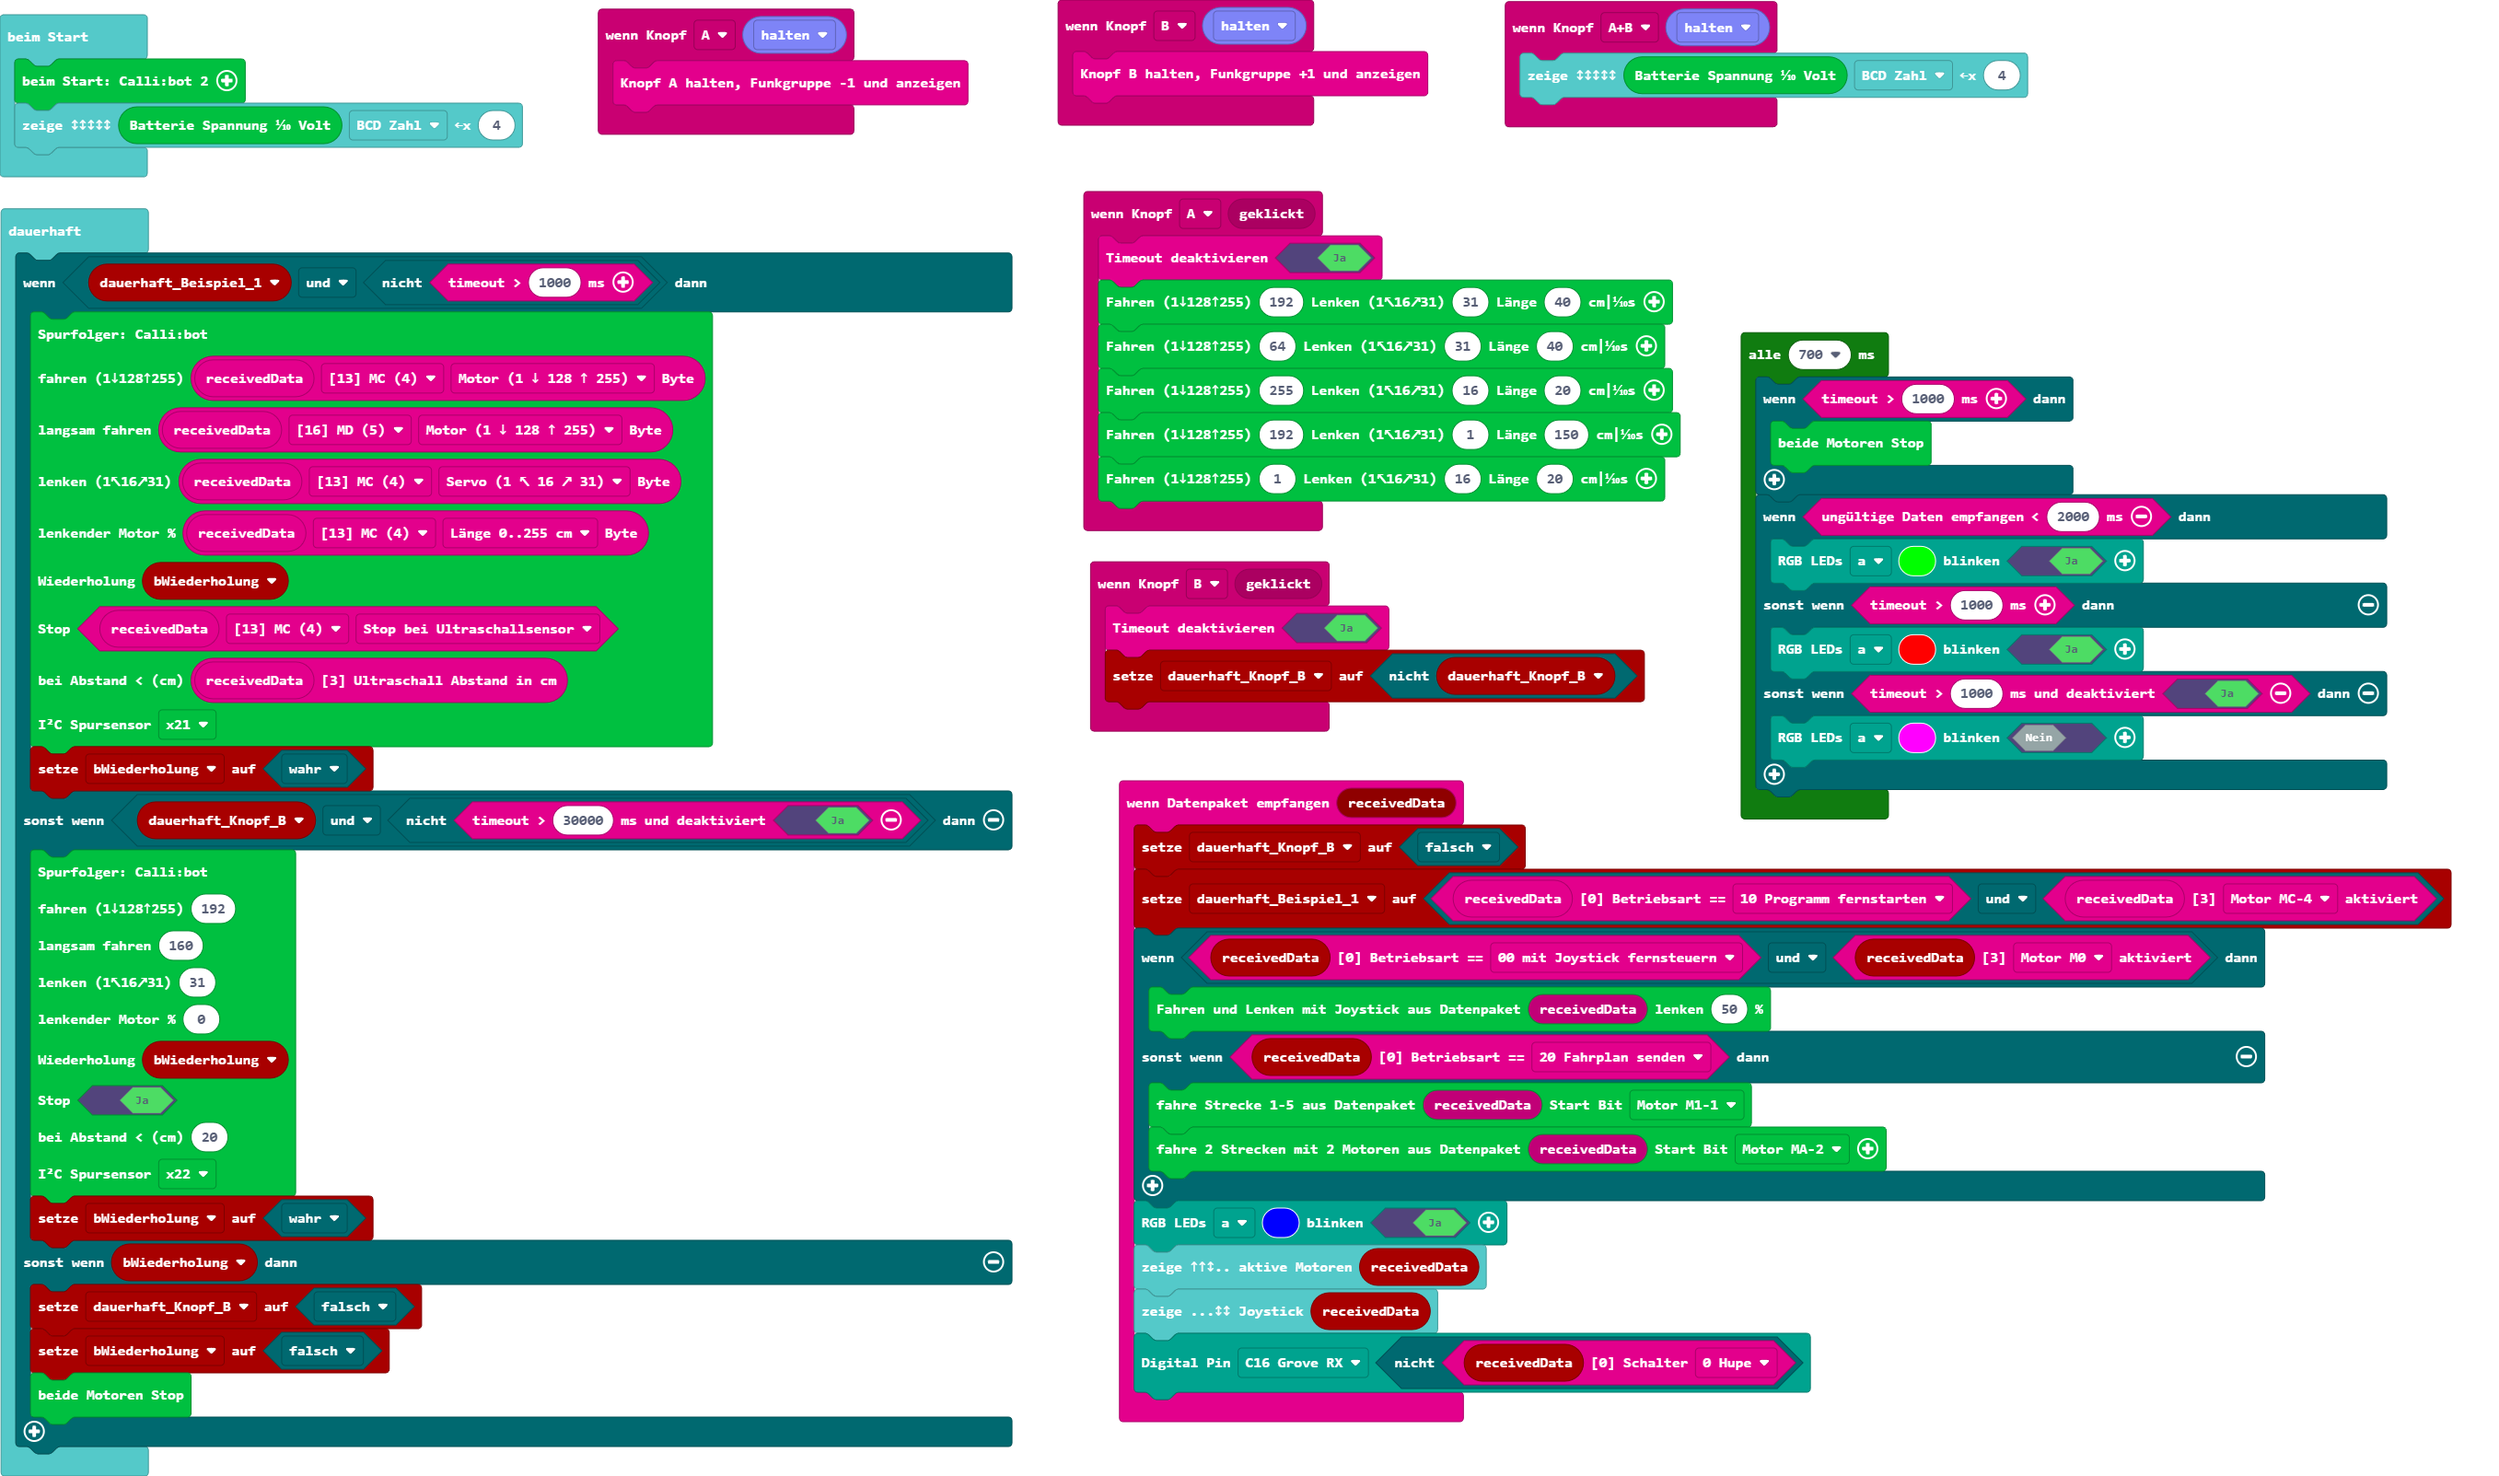
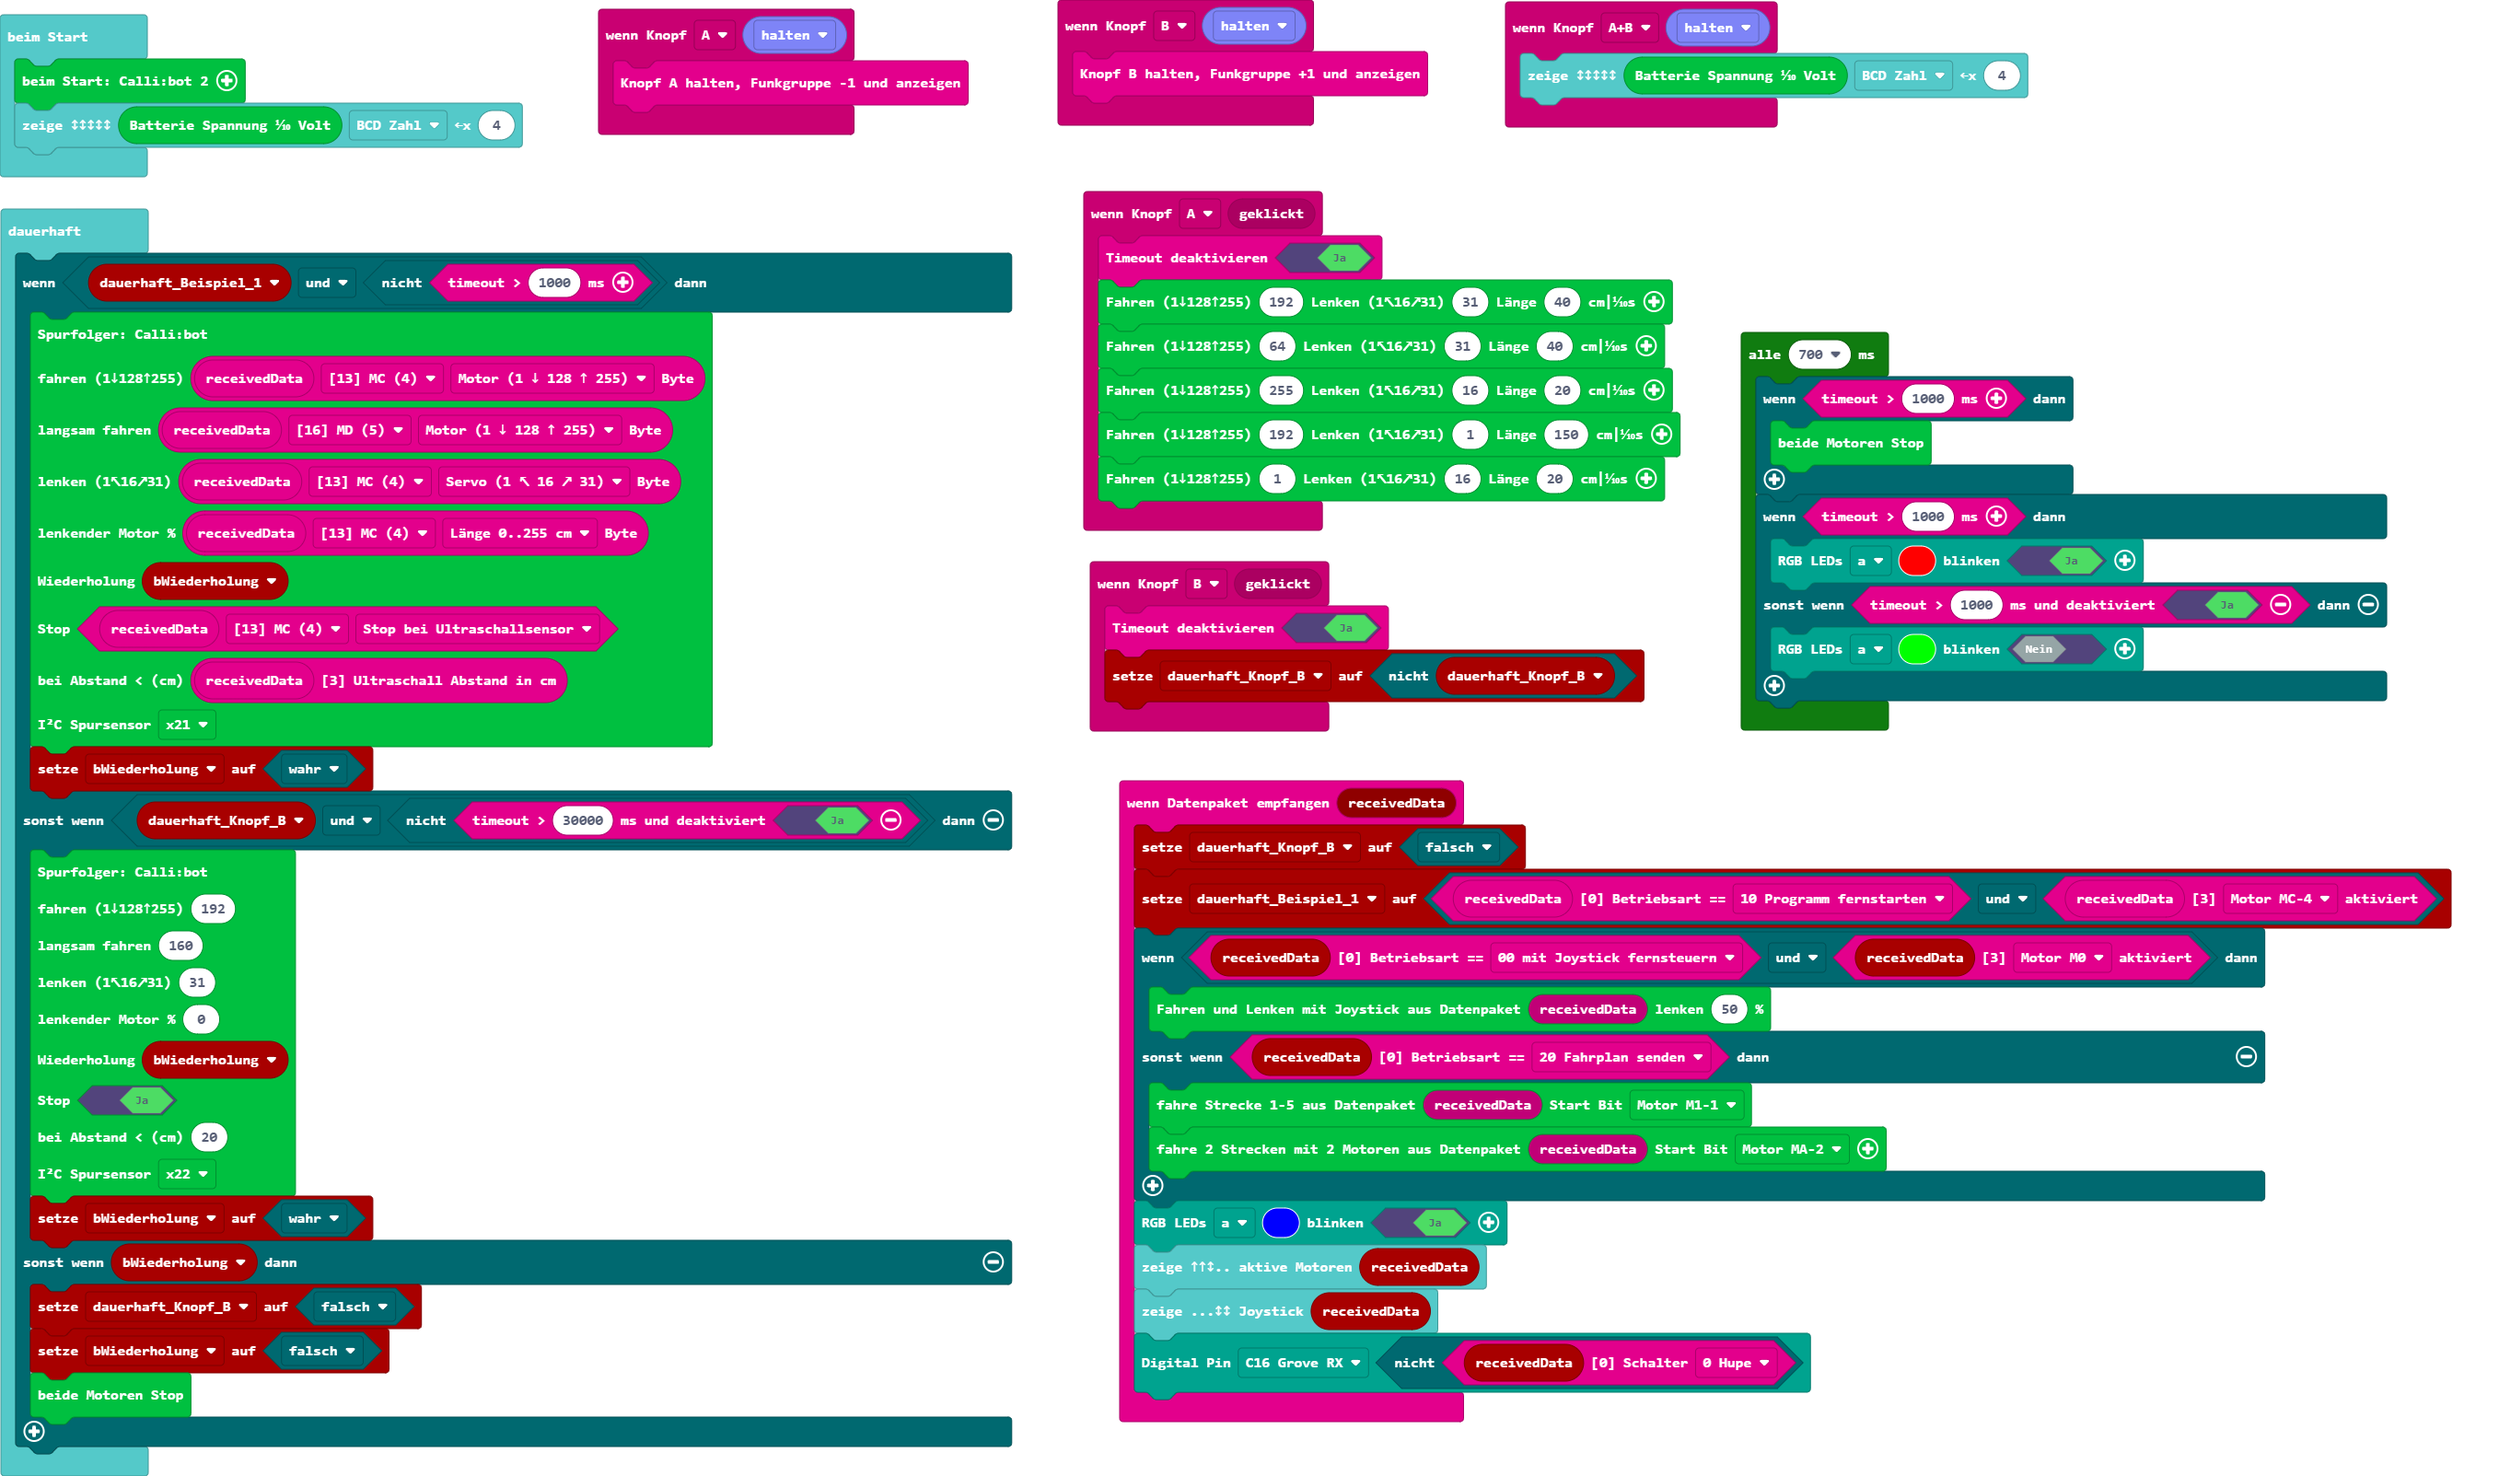
Aktualisiere pxt.json, main.blocks, main.ts

Changed region(s): [[0.6809, 0.3119, 0.9595, 0.5614], [0.7738, 0.2495, 0.8047, 0.2807]]

diff --git a/main.ts b/main.ts
@@ -73,11 +73,9 @@ loops.everyInterval(700, function () {
     if (btf.timeout(1000)) {
         cb2.writeMotorenStop()
     }
-    if (btf.getReceivedBufferError(2000)) {
-        receiver.rgbLEDs(receiver.eRGBled.a, 0x00ff00, true)
-    } else if (btf.timeout(1000)) {
+    if (btf.timeout(1000)) {
         receiver.rgbLEDs(receiver.eRGBled.a, 0xff0000, true)
     } else if (btf.timeout(1000, true)) {
-        receiver.rgbLEDs(receiver.eRGBled.a, 0xff00ff, false)
+        receiver.rgbLEDs(receiver.eRGBled.a, 0x00ff00, false)
     }
 })
